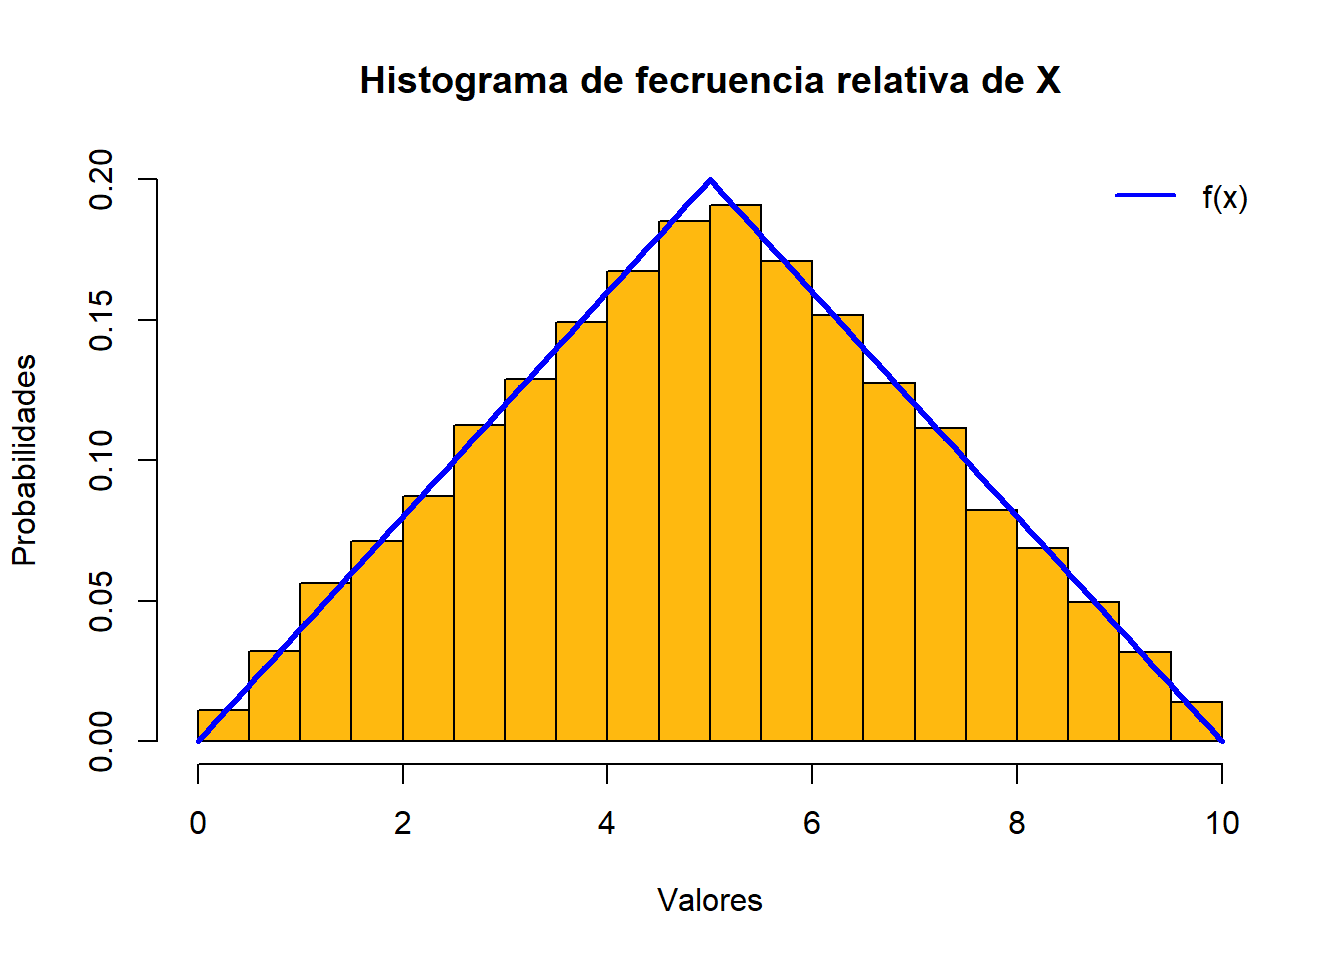
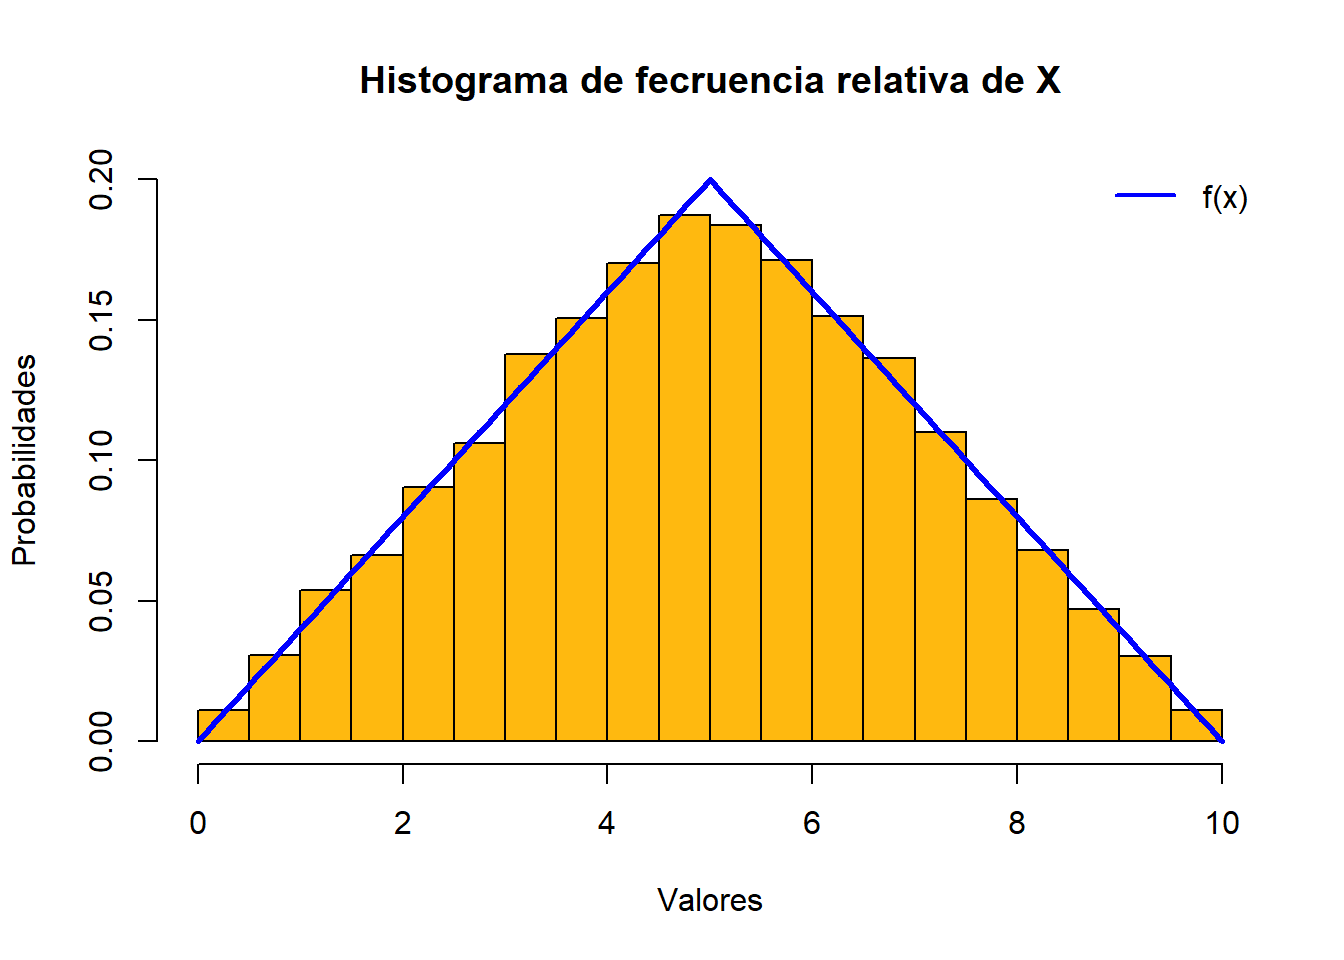
a

diff --git a/informe-tarea1.html b/informe-tarea1.html
@@ -165,7 +165,7 @@ x=3j \space \Longrightarrow dy=3dj\\
 <span id="cb1-10"><a href="#cb1-10" aria-hidden="true" tabindex="-1"></a>valor <span class="ot">&lt;-</span> <span class="fu">mean</span>(m)</span>
 <span id="cb1-11"><a href="#cb1-11" aria-hidden="true" tabindex="-1"></a>valor</span></code><button title="Copy to Clipboard" class="code-copy-button"><i class="bi"></i></button></pre></div>
 <div class="cell-output cell-output-stdout">
-<pre><code>[1] 33.71454</code></pre>
+<pre><code>[1] 33.91835</code></pre>
 </div>
 </div>
 <p>d) el valor real de la integral es</p>
@@ -194,7 +194,7 @@ $error
 <span id="cb5-10"><a href="#cb5-10" aria-hidden="true" tabindex="-1"></a></span>
 <span id="cb5-11"><a href="#cb5-11" aria-hidden="true" tabindex="-1"></a><span class="fu">mean</span>(m2)</span></code><button title="Copy to Clipboard" class="code-copy-button"><i class="bi"></i></button></pre></div>
 <div class="cell-output cell-output-stdout">
-<pre><code>[1] 35.7258</code></pre>
+<pre><code>[1] 34.89974</code></pre>
 </div>
 </div>
 <div class="cell">
@@ -210,7 +210,7 @@ $error
 <span id="cb7-10"><a href="#cb7-10" aria-hidden="true" tabindex="-1"></a></span>
 <span id="cb7-11"><a href="#cb7-11" aria-hidden="true" tabindex="-1"></a><span class="fu">mean</span>(m3)</span></code><button title="Copy to Clipboard" class="code-copy-button"><i class="bi"></i></button></pre></div>
 <div class="cell-output cell-output-stdout">
-<pre><code>[1] 35.82563</code></pre>
+<pre><code>[1] 34.79964</code></pre>
 </div>
 </div>
 <div class="cell">
@@ -226,7 +226,7 @@ $error
 <span id="cb9-10"><a href="#cb9-10" aria-hidden="true" tabindex="-1"></a></span>
 <span id="cb9-11"><a href="#cb9-11" aria-hidden="true" tabindex="-1"></a><span class="fu">mean</span>(m4)</span></code><button title="Copy to Clipboard" class="code-copy-button"><i class="bi"></i></button></pre></div>
 <div class="cell-output cell-output-stdout">
-<pre><code>[1] 34.31193</code></pre>
+<pre><code>[1] 34.04479</code></pre>
 </div>
 </div>
 <p>Se puede apreciar que a medida que crece n, el valor estimado se acerca cada vez más al verdadero valor de la integral.</p>
@@ -342,7 +342,7 @@ x=2 b+(a-b) \sqrt{2(1-U)}
 <span id="cb11-12"><a href="#cb11-12" aria-hidden="true" tabindex="-1"></a>}</span>
 <span id="cb11-13"><a href="#cb11-13" aria-hidden="true" tabindex="-1"></a>x</span></code><button title="Copy to Clipboard" class="code-copy-button"><i class="bi"></i></button></pre></div>
 <div class="cell-output cell-output-stdout">
-<pre><code>[1] 3.264244</code></pre>
+<pre><code>[1] 6.180798</code></pre>
 </div>
 </div>
 <p>e)</p>
